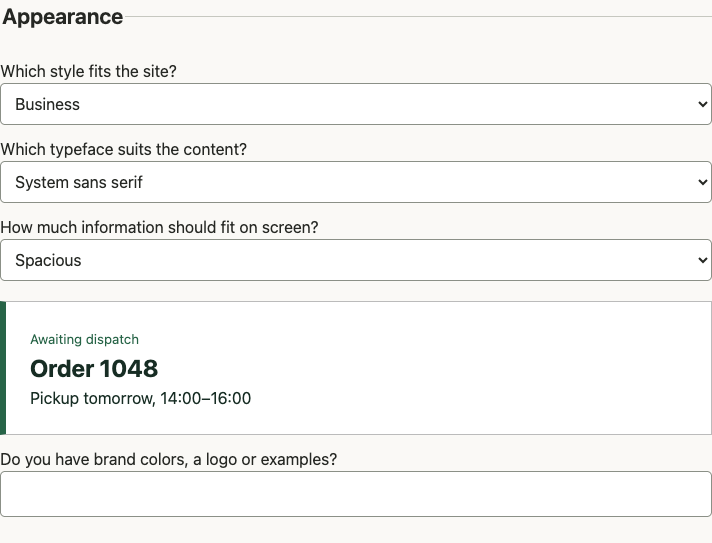
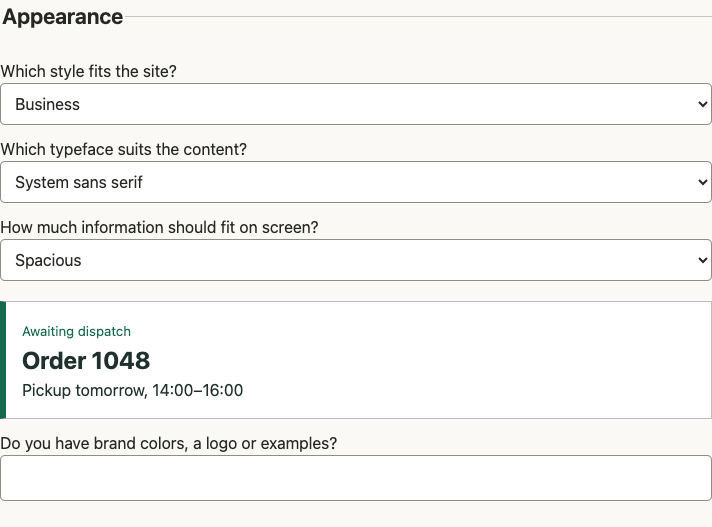
Verify app ownership and align preview tokens with generated sites

diff --git a/skills/hap-compute-design/assets/planner.html b/skills/hap-compute-design/assets/planner.html
@@ -2,7 +2,7 @@
 <html lang="en"><meta charset="utf-8"><meta name="viewport" content="width=device-width, initial-scale=1">
 <title>Website brief · HAP Design Kit</title>
 <style>
-*{box-sizing:border-box}body{margin:auto;max-width:760px;padding:24px;font:16px/1.5 Inter,system-ui,sans-serif;background:#faf9f6;color:#262824}h1{letter-spacing:-.045em;font-size:clamp(32px,6vw,52px)}fieldset{border:0;border-top:1px solid #c6c8c0;margin:24px 0;padding:14px 0}legend{font-size:1.35rem;font-weight:650}label{display:block;margin:12px 0}input,select,button,textarea{display:block;width:100%;padding:10px;font:inherit;border:1px solid #8b9087;border-radius:5px;background:white;color:inherit}button{background:#244e40;color:white;cursor:pointer}#sample{padding:24px;margin-top:20px;border:1px solid #bbb;border-left:6px solid var(--accent);background:var(--paper);color:var(--ink)}#sample strong{font-size:1.5em}#sample small{color:var(--accent)}[hidden]{display:none}
+*{box-sizing:border-box}body{margin:auto;max-width:760px;padding:24px;font:16px/1.5 Inter,system-ui,sans-serif;background:#faf9f6;color:#262824}h1{letter-spacing:-.045em;font-size:clamp(32px,6vw,52px)}fieldset{border:0;border-top:1px solid #c6c8c0;margin:24px 0;padding:14px 0}legend{font-size:1.35rem;font-weight:650}label{display:block;margin:12px 0}input,select,button,textarea{display:block;width:100%;padding:10px;font:inherit;border:1px solid #8b9087;border-radius:5px;background:white;color:inherit}button{background:#244e40;color:white;cursor:pointer}#sample{padding:var(--space);margin-top:20px;border:1px solid #bbb;border-left:6px solid var(--accent);background:var(--panel);color:var(--ink);font-family:var(--typeface)}#sample strong{font-size:1.5em}#sample small{color:var(--accent)}[hidden]{display:none}
 </style><main><h1>Website brief</h1><p>Choose a direction, preview it and save a brief for your coding agent.</p>
 <label>Reopen an existing brief<input id="import" type="file" accept=".json,application/json"></label>
 <p id="message" role="status"></p>
@@ -32,18 +32,15 @@
 <script src="brief.js"></script>
 <script>
 const form=document.querySelector('form'), fields=form.elements, sample=document.querySelector('#sample');
-const palettes=[['#ffffff','#172d24','#276447'],['#fff1da','#3d2e22','#864419'],['#192631','#f0f5fa','#95dbef']];
 function refresh(){
   const connected=fields.source.selectedIndex===1;
   document.querySelector('#appLabel').hidden=!connected;
   fields.app.disabled=!connected;
   document.querySelector('#appHint').textContent=document.querySelector('#appHint').dataset.discovery === 'true'
-    ? (fields.app.options.length > 1 ? 'Applications scoped to your current ownership.' : 'No owned applications were returned for this organization.')
+    ? (Array.from(fields.app.options).some(option => option.value && !option.dataset.originalName) ? 'Applications scoped to your current ownership.' : 'No owned applications were returned for this organization.')
     : 'To discover apps, run hap-design new with --org, --origin and HAP_PAT in your environment. Imported choices have not been verified.';
-  const palette=palettes[fields.namedItem('style').selectedIndex];
-  ['--paper','--ink','--accent'].forEach((key,i)=>sample.style.setProperty(key,palette[i]));
-  sample.style.fontFamily=['system-ui','Georgia, serif','monospace'][fields.font.selectedIndex];
-  sample.style.padding=fields.density.selectedIndex?'10px':'24px';
+  const tokens = designTokens({style: fields.namedItem('style').value, font: fields.font.value, density: fields.density.value});
+  for (const [key, value] of Object.entries(tokens)) sample.style.setProperty('--' + key, value);
 }
 const message = document.querySelector('#message');
 const plan = document.querySelector('#plan');

diff --git a/skills/hap-compute-design/assets/brief.js b/skills/hap-compute-design/assets/brief.js
@@ -39,4 +39,19 @@ function normalizeBrief(input) {
   return brief;
 }
 
-if (typeof module !== 'undefined') module.exports = {normalizeBrief};
+function designTokens(brief) {
+  const palette = {
+    business: ['#f4f6f3', '#20312d', '#ffffff', '#16694c', '#ffffff'],
+    editorial: ['#fff1da', '#3d2e22', '#fffcf5', '#864419', '#ffffff'],
+    dark: ['#192631', '#f0f5fa', '#243545', '#95dbef', '#192631'],
+  }[brief.style];
+  const [canvas, ink, panel, accent, onAccent] = palette;
+  return {
+    canvas, ink, panel, accent,
+    'on-accent': onAccent,
+    typeface: {sans: 'system-ui, sans-serif', serif: 'Georgia, serif', mono: 'monospace'}[brief.font],
+    space: brief.density === 'compact' ? '.65rem' : '1rem',
+  };
+}
+
+if (typeof module !== 'undefined') module.exports = {normalizeBrief, designTokens};

diff --git a/README.md b/README.md
@@ -35,7 +35,7 @@ cp -R skills/hap-compute-design "$PROJECT_DIR/.agents/skills/"
 
 Open that project in your agent and ask it to “Use hap-compute-design with design-brief.json. Show me the screens and how we will test the primary task.” For a Compute project, install the official Compute skill using **Create Compute → Connect Other AI Tools** in your organization. [HAP Compute setup](https://help.mingdao.com/en/compute/#22-connect-other-ai-tools)
 
-To make `hap-design` available on your PATH, run `npm install -g ./skills/hap-compute-design` from the clone. For local development use `npm link` from the skill directory.
+To make `hap-design` available on your PATH, run `npm install -g ./skills/hap-compute-design` from the clone. For local development use `npm link` from the skill directory. Checked builds are available as workflow artifacts in [GitHub Actions](https://github.com/Asura3301/hap_compute_design_kit/actions/workflows/cli.yml). For an archive installation, download the artifact from a successful run, unzip it and run `npm install -g ./hap-compute-design-0.3.1.tgz` using the filename in the artifact.
 
 | Command | What it does |
 | --- | --- |
@@ -43,10 +43,10 @@ To make `hap-design` available on your PATH, run `npm install -g ./skills/hap-co
 | `hap-design styles` | Opens the planner link at the visual preview |
 | `hap-design check design-brief.json` | Validates and prints the normalized brief as JSON |
 | `hap-design scaffold BRIEF.json --template standalone\|dispatch --out NEW_DIRECTORY` | Creates a themed frontend starter |
-| `hap-design apps --org ID --origin HTTPS_ORIGIN` | Lists apps in the PAT owner's scope |
-| `hap-design new --org ID --origin HTTPS_ORIGIN` | Preloads the app picker from that list |
+| `hap-design apps --org ID --origin HTTPS_API_BASE` | Lists apps in the PAT owner's scope |
+| `hap-design new --org ID --origin HTTPS_API_BASE` | Preloads the app picker from that list |
 
-For app discovery, provide `HAP_PAT` through your local environment. Use the approved HTTPS API origin for your organization, with the scheme and hostname only. The CLI sends the PAT to that origin. App names and IDs are included in the local planner. Keep that file on your machine. Website visitors sign in through the access policy configured for the deployed site.
+For app discovery, provide `HAP_PAT` through your local environment. Use the approved HTTPS API base URL for your organization. HAP Server deployments can include the documented `/api` suffix. The CLI sends the PAT to that origin. [App list API](https://apidoc.mingdao.com/docs/app/application-v3-get--v3-apps-list?auth=pat&version=v3) App names and IDs are included in the local planner. Keep that file on your machine. Website visitors sign in through the access policy configured for the deployed site.
 
 ## Build and preview a starter
 
@@ -60,6 +60,6 @@ To connect the queue to an existing HAP app, map its fields to your Compute serv
 
 ## Development
 
-Run `npm test --prefix skills/hap-compute-design` to test the CLI. CI also runs Chromium tests and builds downloadable skill and npm archives with SHA256 checksums. See the [release plan](docs/ROADMAP.md) for packaging, visual checks and the live Compute acceptance scenarios.
+Run `npm test --prefix skills/hap-compute-design` to test the CLI. CI also runs Chromium tests and builds downloadable skill and npm archives with SHA256 checksums. The starter checks cover keyboard navigation, 360 px layout, axe accessibility rules and a 16 KiB local page payload budget. See the [changelog](CHANGELOG.md) for version history. See the [release plan](docs/ROADMAP.md) for packaging, visual checks and the live Compute acceptance scenarios.
 
 [MIT license](LICENSE)

diff --git a/CHANGELOG.md b/CHANGELOG.md
@@ -1,0 +1,19 @@
+# Changelog
+
+## 0.3.1
+
+- Use the documented HAP owner query and verify the returned ownership flag. Support HTTPS bases for HAP SaaS and HAP Server.
+- Share palette, typeface and density values between the planner preview and generated starters.
+- Check that the local starter pages stay below 16 KiB without third-party requests.
+
+## 0.3.0
+
+- Translate the planner, CLI messages, README and release documentation into English.
+- Export versioned briefs, reopen them for editing and import briefs from 0.2.
+- Add screen plan preview and the `check` and `scaffold` commands.
+- Add standalone and dispatch starters and document the Compute adapter contract.
+- Test packaged installation, CLI behavior and browser journeys in GitHub Actions. Build npm and skill archives with SHA256 checksums.
+
+## 0.2.0
+
+- Add the local planner, visual presets, PAT app discovery and an initial dispatch example.
